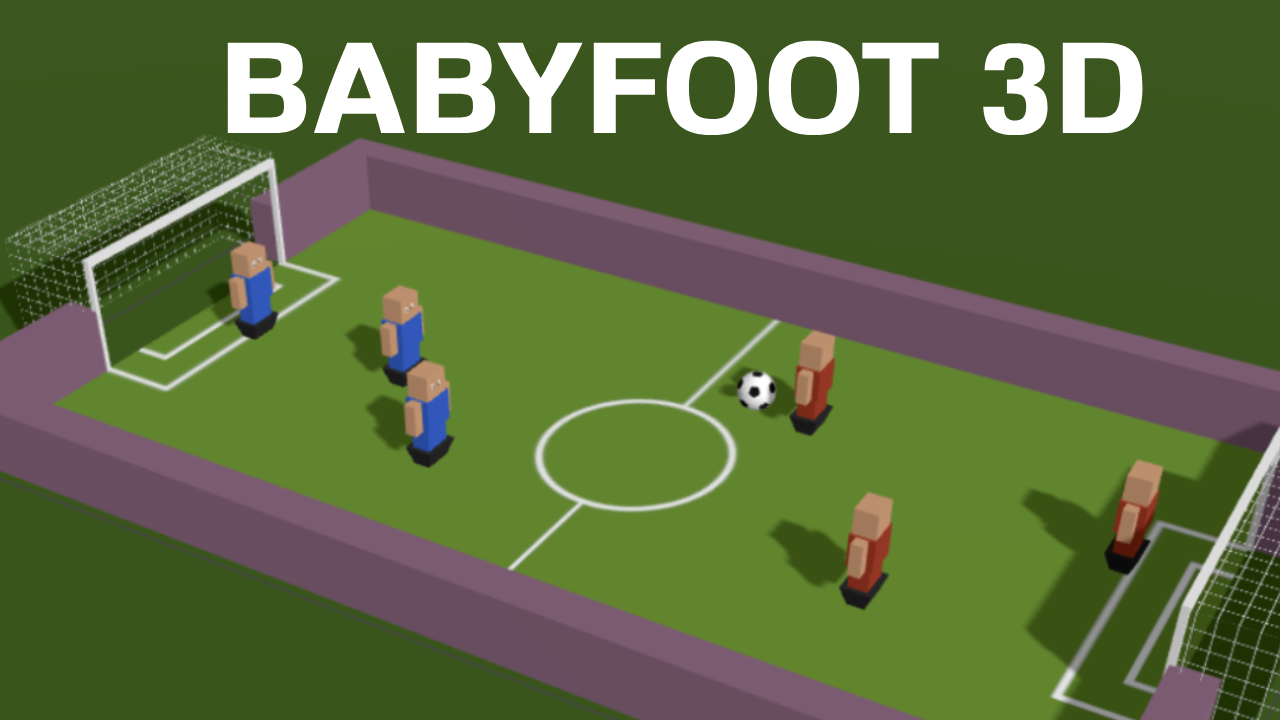
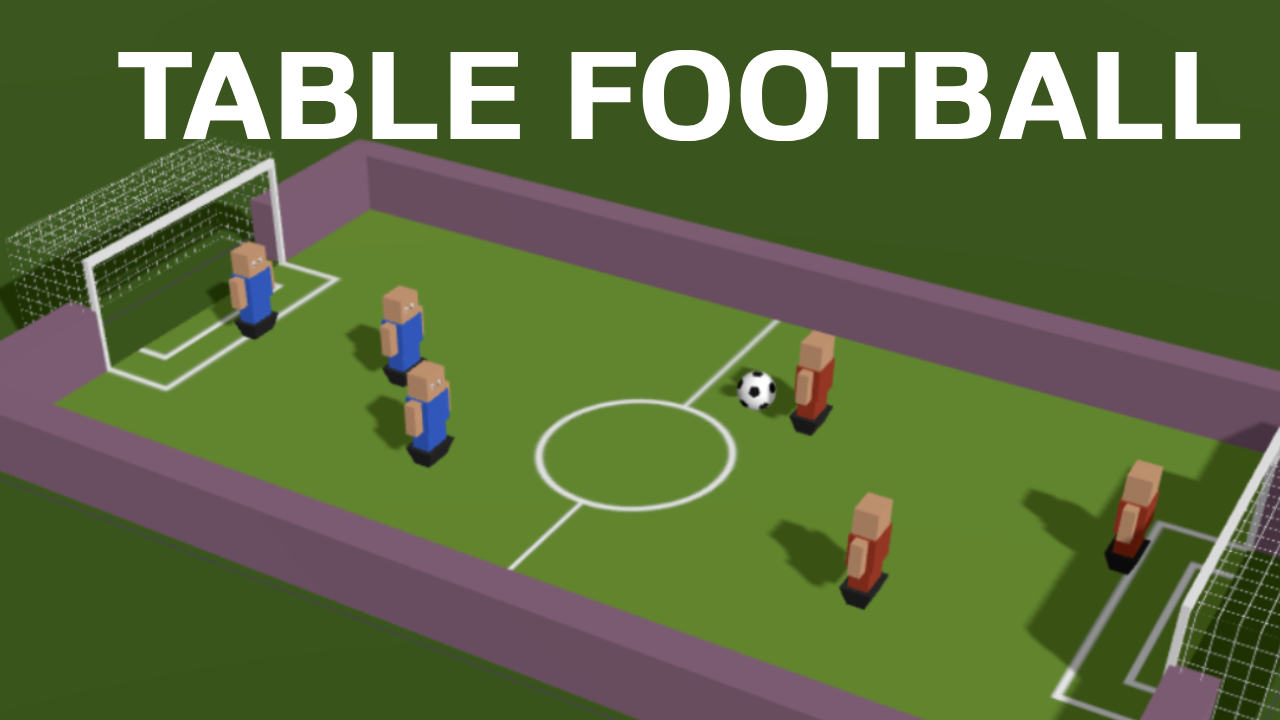
Fix metadata for SEO
Don't show in the changelog

Changed region(s): [[0.0938, 0.0306, 0.9688, 0.2139]]

diff --git a/examples/babyfoot-3d/README.md b/examples/babyfoot-3d/README.md
@@ -1,3 +1,3 @@
 # Babyfoot 3D
 
-A babyfoot game, in 3D, compatible mobile.
+A 3D table soccer (foosball/babyfoot) game optimized for mobile devices.

diff --git a/examples/babyfoot-3d/TAGS.md b/examples/babyfoot-3d/TAGS.md
@@ -1,1 +1,1 @@
-game, simple
+game, simple, soccer, football